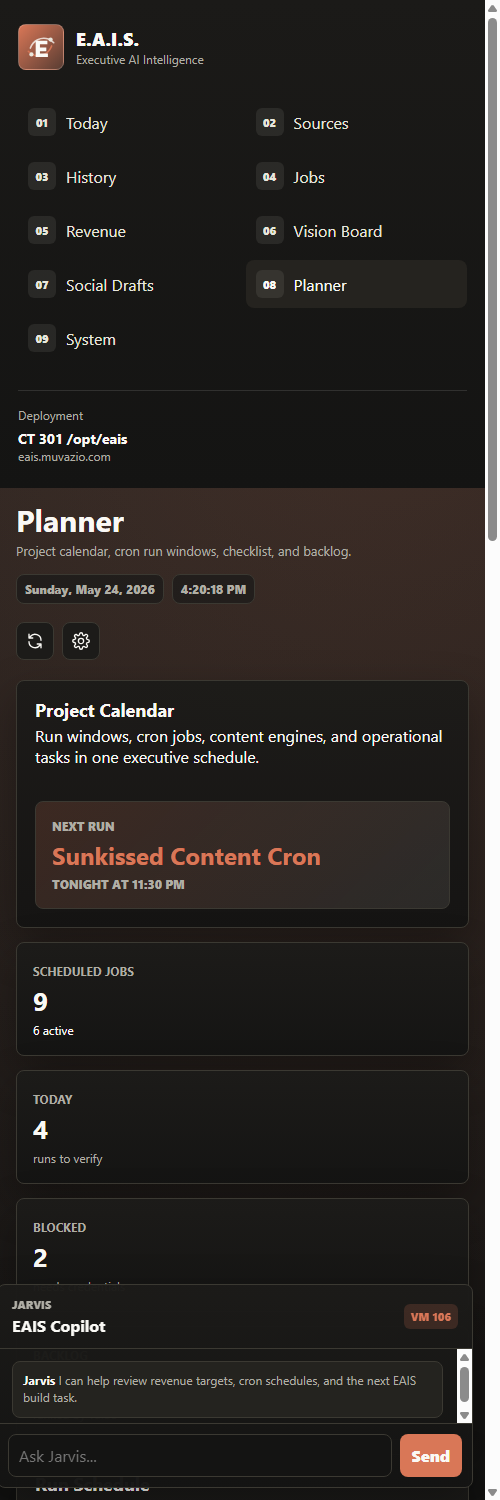
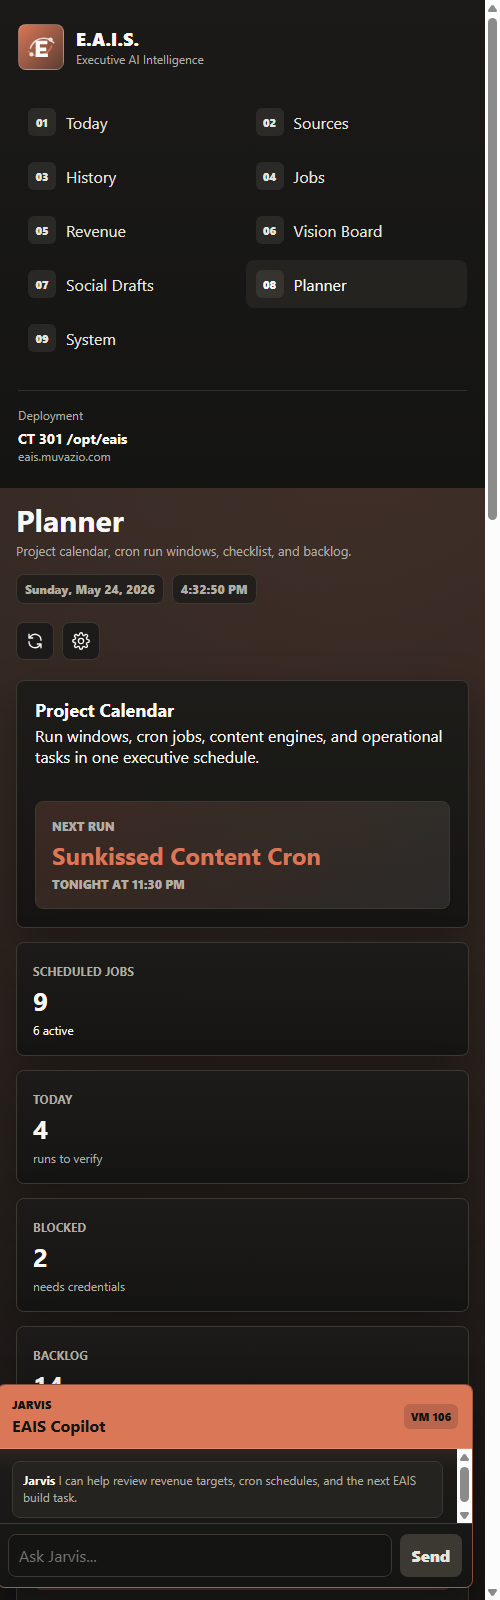
Add Google Calendar planner card

Changed region(s): [[0.0, 0.0, 1.0, 1.0], [0.51, 0.0613, 0.78, 0.2147]]

diff --git a/mockups/eais-dashboard/styles.css b/mockups/eais-dashboard/styles.css
@@ -1169,6 +1169,75 @@ h3 {
   margin-bottom: 14px;
 }
 
+.google-calendar-panel {
+  margin-bottom: 14px;
+}
+
+.google-calendar-layout {
+  display: grid;
+  grid-template-columns: 340px minmax(0, 1fr);
+  gap: 14px;
+}
+
+.calendar-account {
+  border: 1px solid var(--line);
+  border-radius: 8px;
+  background: var(--panel-soft);
+  padding: 14px;
+}
+
+.calendar-account span {
+  display: block;
+  color: var(--muted);
+  font-size: 12px;
+  font-weight: 900;
+  text-transform: uppercase;
+}
+
+.calendar-account strong {
+  display: block;
+  margin: 8px 0;
+  color: var(--accent);
+  font-size: 18px;
+}
+
+.calendar-account p,
+.calendar-event-list p {
+  color: var(--muted);
+  font-size: 13px;
+  line-height: 1.45;
+}
+
+.calendar-actions {
+  display: grid;
+  gap: 8px;
+  margin-top: 14px;
+}
+
+.calendar-event-list {
+  display: grid;
+  grid-template-columns: repeat(3, minmax(0, 1fr));
+  gap: 10px;
+}
+
+.calendar-event-list article {
+  border: 1px solid var(--line);
+  border-left: 4px solid var(--accent);
+  border-radius: 8px;
+  background: var(--panel-soft);
+  padding: 12px;
+}
+
+.calendar-event-list time {
+  color: var(--accent);
+  font-size: 13px;
+  font-weight: 900;
+}
+
+.calendar-event-list h3 {
+  margin-top: 8px;
+}
+
 .planner-layout,
 .planner-lower {
   display: grid;
@@ -1528,6 +1597,8 @@ h3 {
   .revenue-slider-grid,
   .revenue-layout,
   .planner-metric-grid,
+  .google-calendar-layout,
+  .calendar-event-list,
   .planner-layout,
   .planner-lower,
   .places-layout,

diff --git a/mockups/eais-dashboard/index.html b/mockups/eais-dashboard/index.html
@@ -783,6 +783,50 @@
             </article>
           </div>
 
+          <section class="panel google-calendar-panel">
+            <div class="panel-header">
+              <div>
+                <h2>Google Calendar</h2>
+                <p>Connect your Gmail calendar so EAIS can place cron windows, reviews, and project checkpoints on your daily schedule.</p>
+              </div>
+              <span class="status-pill warn" id="calendar-status">Needs Connect</span>
+            </div>
+            <div class="google-calendar-layout">
+              <div class="calendar-account">
+                <span>Calendar Account</span>
+                <strong id="calendar-account-label">Gmail calendar not connected</strong>
+                <p>Production should use Google OAuth or a private calendar feed. This mockup keeps credentials out of the browser.</p>
+                <div class="calendar-actions">
+                  <button class="command-button" type="button" data-calendar-action="connect">Connect Google Calendar</button>
+                  <button class="full-button secondary" type="button" data-calendar-action="sync">Sync Runs</button>
+                </div>
+              </div>
+              <div class="calendar-event-list">
+                <article>
+                  <time>6:00 AM</time>
+                  <div>
+                    <h3>EAIS Daily Brief Review</h3>
+                    <p>Confirm email, Joplin archive, and top signals.</p>
+                  </div>
+                </article>
+                <article>
+                  <time>7:15 AM</time>
+                  <div>
+                    <h3>Fitness Cron Check</h3>
+                    <p>Review generated fitness and wellness content ideas.</p>
+                  </div>
+                </article>
+                <article>
+                  <time>Fri 4:30 PM</time>
+                  <div>
+                    <h3>Revenue + Backlog Review</h3>
+                    <p>Update income sliders, blockers, and next project actions.</p>
+                  </div>
+                </article>
+              </div>
+            </div>
+          </section>
+
           <div class="planner-layout">
             <section class="panel">
               <div class="panel-header">

diff --git a/mockups/eais-dashboard/script.js b/mockups/eais-dashboard/script.js
@@ -15,6 +15,8 @@ const jarvisForm = document.querySelector("#jarvis-form");
 const jarvisInput = document.querySelector("#jarvis-input");
 const jarvisMessages = document.querySelector("#jarvis-messages");
 const jarvisEndpoint = window.EAIS_JARVIS_ENDPOINT || "";
+const calendarStatus = document.querySelector("#calendar-status");
+const calendarAccountLabel = document.querySelector("#calendar-account-label");
 let toastTimer;
 let activePlaceIndex = 0;
 
@@ -266,8 +268,26 @@ document.querySelectorAll(".segmented-control").forEach((control) => {
 document.querySelectorAll(".row-action, .command-button, .full-button, .text-button, .icon-button").forEach((button) => {
   button.addEventListener("click", () => {
     const label = button.getAttribute("title") || button.textContent.trim();
+    const calendarAction = button.dataset.calendarAction;
 
     if (button.classList.contains("nav-item")) {
+      return;
+    }
+
+    if (calendarAction === "connect") {
+      calendarStatus.textContent = "Demo Connected";
+      calendarStatus.classList.remove("warn");
+      calendarStatus.classList.add("good");
+      calendarAccountLabel.textContent = "Gmail calendar ready for OAuth";
+      showToast("Demo: Google Calendar connection staged");
+      return;
+    }
+
+    if (calendarAction === "sync") {
+      calendarStatus.textContent = "Synced";
+      calendarStatus.classList.remove("warn");
+      calendarStatus.classList.add("good");
+      showToast("Demo: planner runs synced to Google Calendar");
       return;
     }
 

diff --git a/mockups/eais-dashboard/README.md b/mockups/eais-dashboard/README.md
@@ -30,6 +30,7 @@ Current design direction:
 - Revenue stream tracking for Pinterest, KalshiEdge, RepoReel/ClipEngine, EAIS reports, and future income projects.
 - Revenue sliders that update totals, monthly mix, and Vision Board progress.
 - Project calendar for EAIS, Sunkissed, fitness, RepoReel, KalshiEdge, and other recurring runs.
+- Google Calendar planning card for connecting a Gmail calendar and syncing run/review blocks.
 - Project checklist and backlog sections for launch tasks, cron work, and future dashboard features.
 - Joplin save/archive actions for daily briefings.
 - Vision board for goals and items such as Lucid Gravity and TUMI backpack.